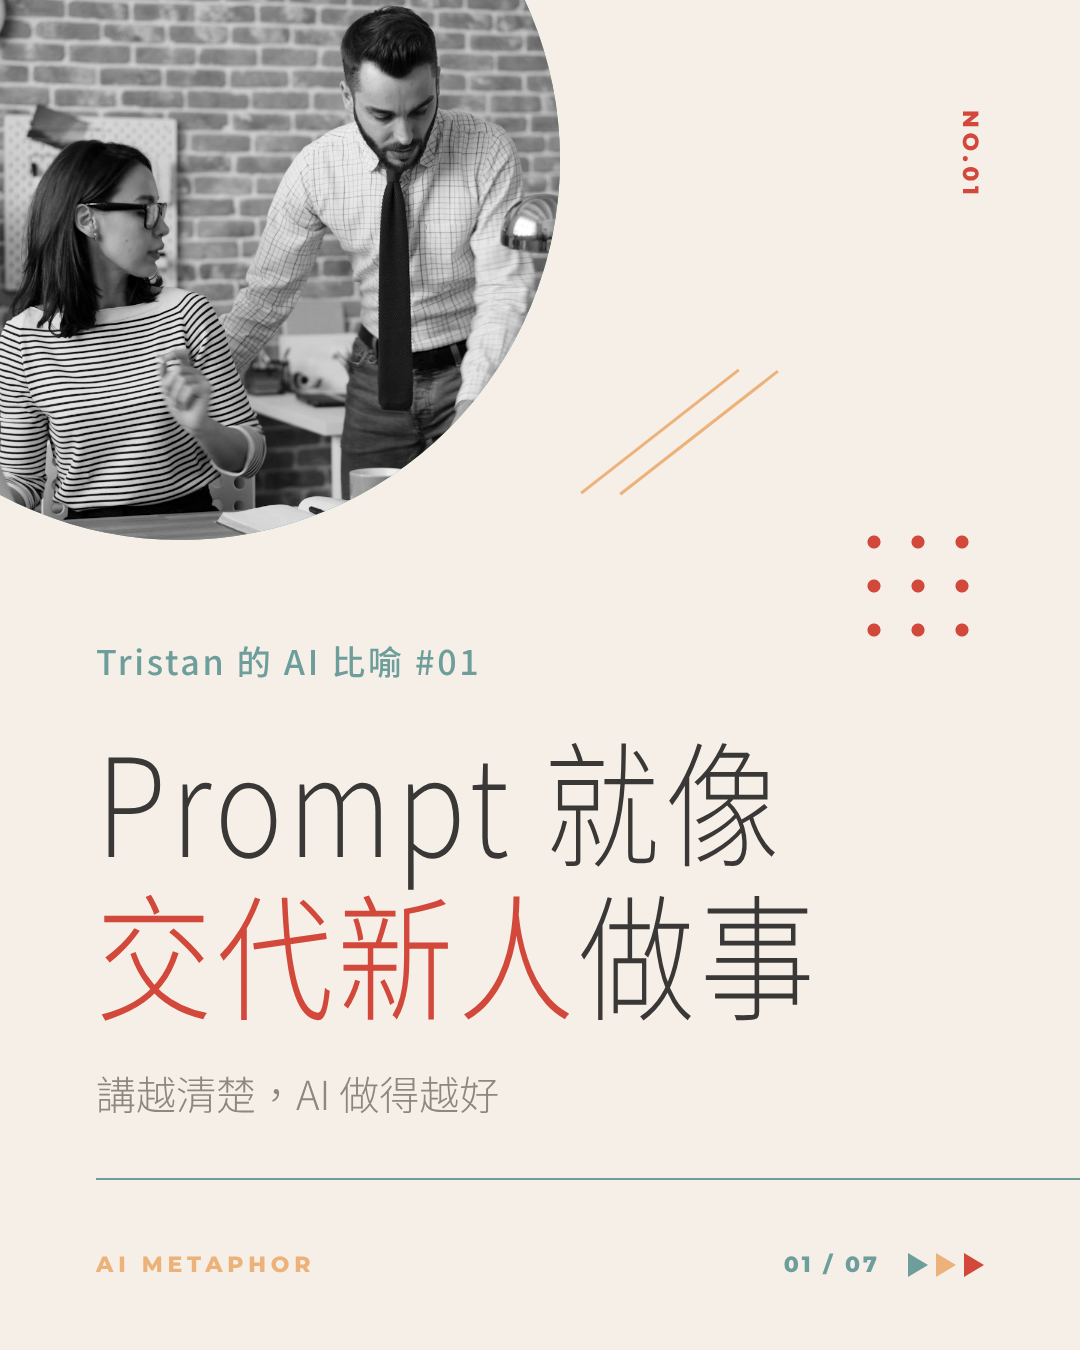
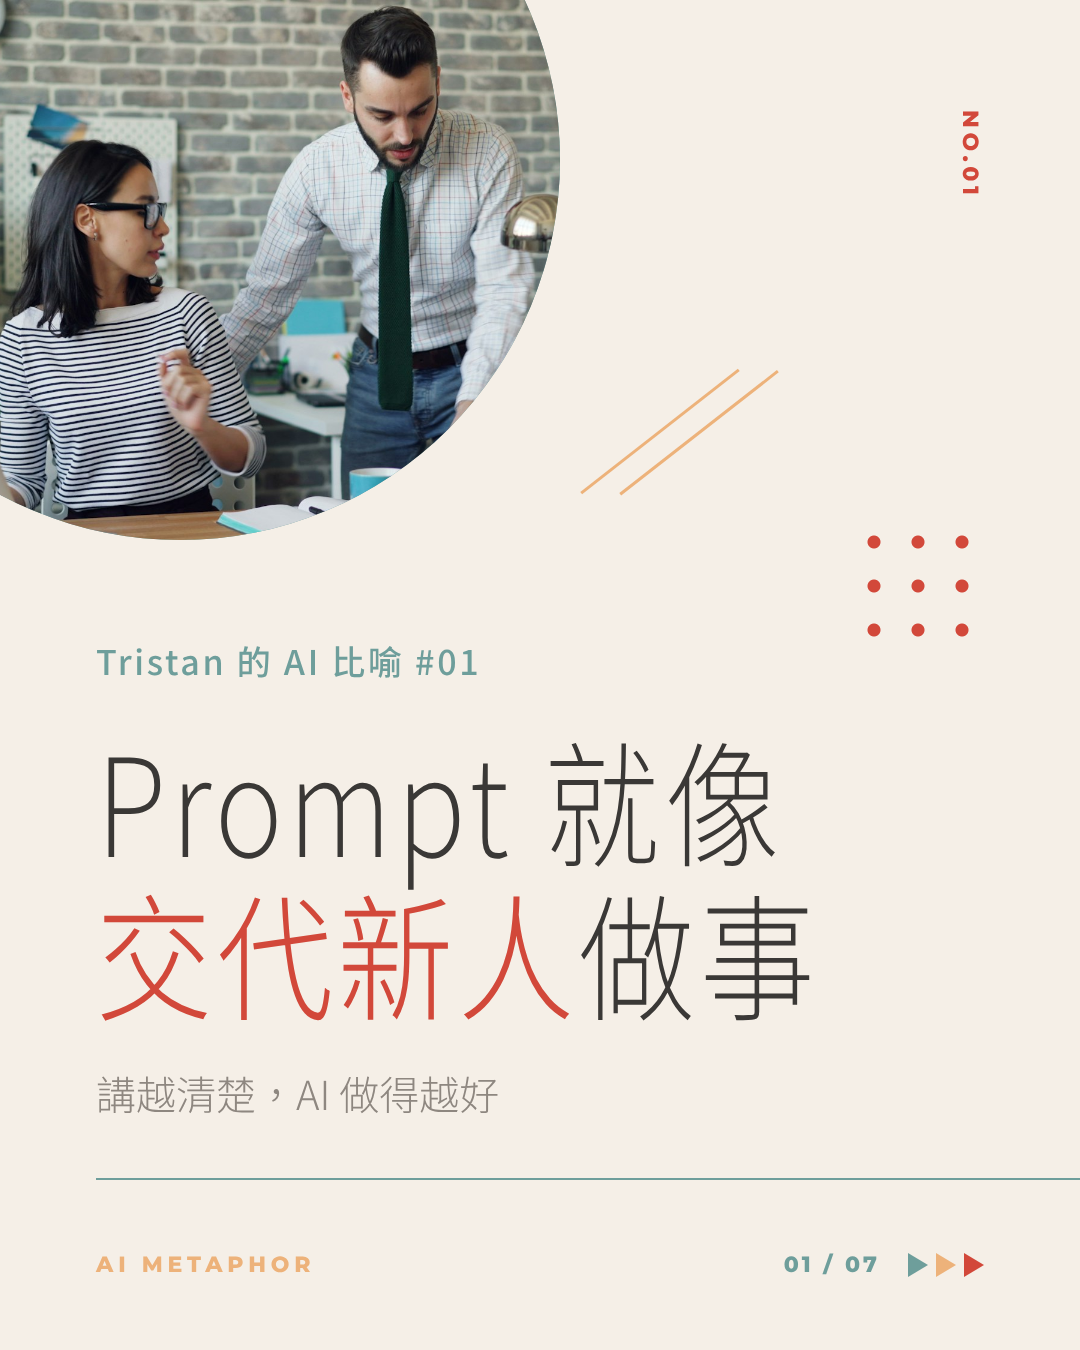
tristan-social：輪播封面照片改用彩色
Claude-Session: https://claude.ai/code/session_01SG37vRZCPY3dhTi4ZSUh4b

diff --git a/projects/2026-10-tristan-social/carousel/template.html b/projects/2026-10-tristan-social/carousel/template.html
@@ -68,7 +68,7 @@
   }
   /* 封面照片填進綠色圓，只鋪在畫面看得到的那一塊，主角才不會被裁掉 */
   .t-cover .blob { overflow: hidden; }
-  .t-cover .blob img { position: absolute; left: 200px; top: 220px; width: 560px; height: 540px; object-fit: cover; filter: grayscale(1) contrast(1.05); }
+  .t-cover .blob img { position: absolute; left: 200px; top: 220px; width: 560px; height: 540px; object-fit: cover; }
   .avatar img { width: 100%; height: 100%; object-fit: cover; }
   .t-cover .vert { right: 96px; top: 110px; writing-mode: vertical-rl; font-size: 22px; color: var(--coral); }
   .t-cover .frame { justify-content: flex-end; }

diff --git a/memory/tristan-carousel-style.md b/memory/tristan-carousel-style.md
@@ -6,7 +6,7 @@ type: feedback
 
 2026-10-29 確認 Tristan IG 輪播（`projects/2026-10-tristan-social/carousel/`）的規格：
 
-- 封面放「這篇文最有代表性的照片」，每篇不同；照片直接填進左上角的綠色大圓，不另開照片框
+- 封面放「這篇文最有代表性的照片」，每篇不同；照片直接填進左上角的綠色大圓，不另開照片框；用原本的彩色，不轉黑白（2026-10-29 使用者指定）
 - 最後一頁（CTA）放 Tristan 的形象照：彩色、灰綠背景那張（`carousel/assets/tristan.jpg`），和主色灰綠最搭
 - 標題字型用思源黑體 Thin（weight 200）縱向拉長 1.18 倍；不用找「文青木瓜」原字
 - IG 帳號：@tris.tan.2049
